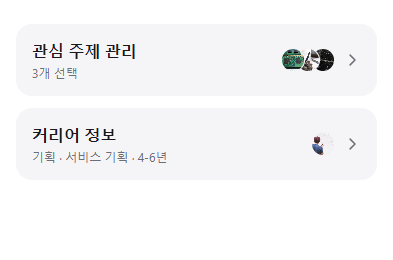
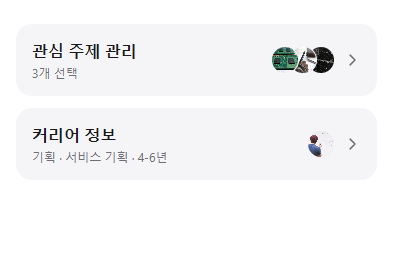
style(profile): slightly enlarge summary photos

Changed region(s): [[0.6718, 0.1846, 0.855, 0.2769], [0.7634, 0.5231, 0.8244, 0.6154]]

diff --git a/frontend/src/features/profile/components/ProfilePhotoStack.tsx b/frontend/src/features/profile/components/ProfilePhotoStack.tsx
@@ -2,8 +2,8 @@ import { Image, StyleSheet, View, type ImageSourcePropType } from 'react-native'
 
 import { theme } from '@/shared/theme';
 
-const PHOTO_SIZE = 24;
-const PHOTO_OVERLAP = 9;
+const PHOTO_SIZE = 28;
+const PHOTO_OVERLAP = 10;
 
 interface ProfilePhotoStackProps {
   photos: { id: string; source: ImageSourcePropType }[];

diff --git a/docs/spec/uiux/profile-uiux.md b/docs/spec/uiux/profile-uiux.md
@@ -151,7 +151,7 @@ P1~P5 ─[⚙ 설정 아이콘]─> 설정 화면 (settings-uiux.md)
 
 - 왼쪽에 **"관심 주제 관리"** + 그 아래 **"N개 선택"**, 오른쪽에 **겹친 원형 주제 사진 최대 3장**을 표시한다(2026-10-10). 제목은 16pt/600, 요약은 12pt/보조색이다.
 - **대표 3개는 별도 선정 기준 없이 서버 응답(`top_topics`) 순서의 앞 3개다**(합의 2026-08-06 — `profile.md` 4.4).
-- 사진 지름은 24pt, 겹침은 9pt, 경계는 카드 면 색의 1.5pt 테두리다. 사진 위에는 글자·오버레이·별도 `+N`을 두지 않는다. 초과 보유자의 전체 개수는 "N개 선택"으로 전달한다.
+- 사진 지름은 28pt, 겹침은 10pt, 경계는 카드 면 색의 1.5pt 테두리다. 사진 위에는 글자·오버레이·별도 `+N`을 두지 않는다. 초과 보유자의 전체 개수는 "N개 선택"으로 전달한다.
 - 주제명·초과 개수는 카드의 접근성 라벨에 유지한다. 사진은 장식으로 숨기며, 사진을 탭해도 개별 편집이 아니라 카드와 같은 관심사 관리 진입이다.
 - 관심 주제 0개 상태는 없다(4.2 — 최소 1개 강제).
 
